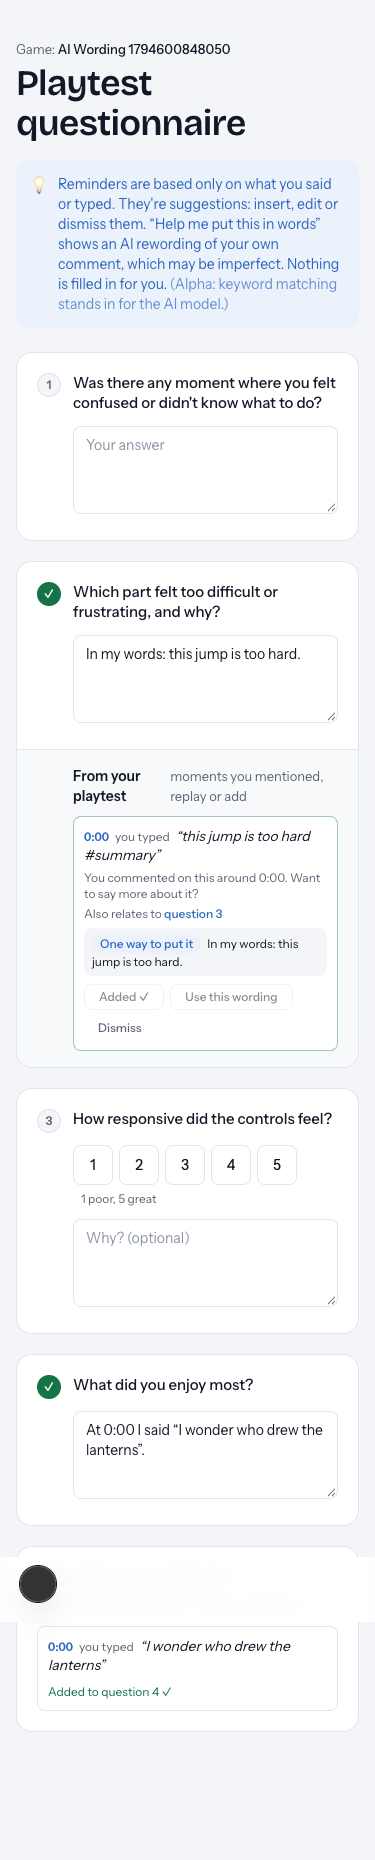
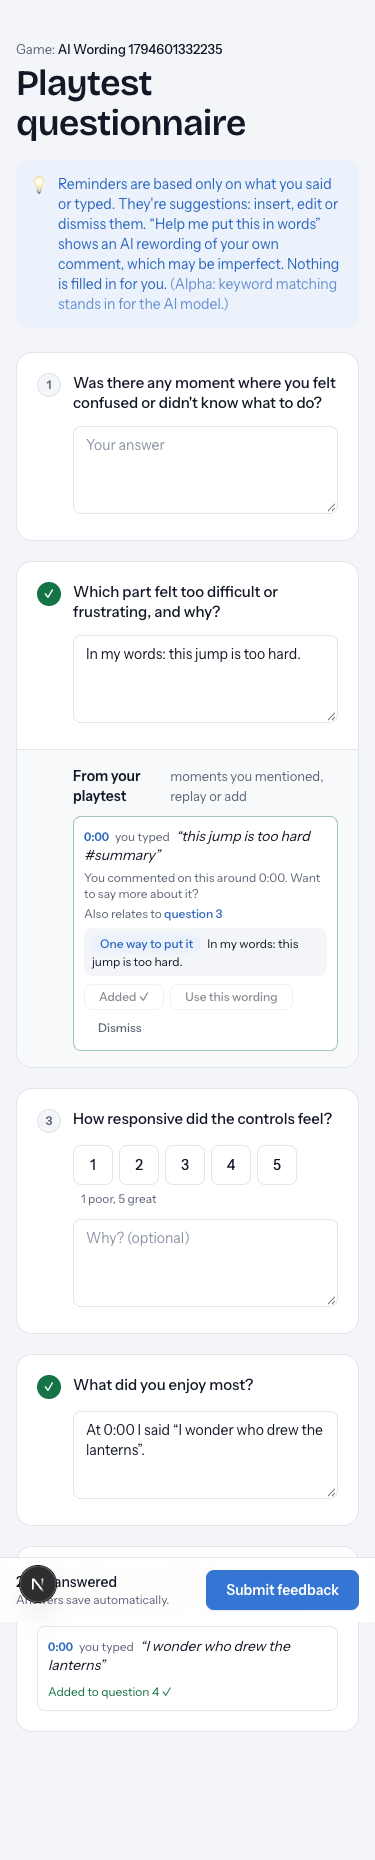
fix(survey): 'Added to question N' survives a reload, so a comment can't be added twice
Found clicking through by hand: the added state lived only in memory. It is now derived from
the saved answers. E2E reloads and checks.

diff --git a/src/app/t/[token]/survey.tsx b/src/app/t/[token]/survey.tsx
@@ -15,7 +15,6 @@ export function Survey({ token, sessionId, projectName, audioOnly, onSubmitted }
   const [title, setTitle] = useState("");
   const [prompts, setPrompts] = useState<Prompt[]>([]);
   const [others, setOthers] = useState<Moment[]>([]);
-  const [addedOther, setAddedOther] = useState<Record<string, number>>({}); // moment id -> question number it was added to
   const [status, setStatus] = useState<Status | null>(null);
   const [hasRecording, setHasRecording] = useState(false);
   const [answers, setAnswers] = useState<Record<string, Ans>>({});
@@ -110,8 +109,9 @@ export function Survey({ token, sessionId, projectName, audioOnly, onSubmitted }
     const a = ans(q.id);
     const line = quoteLine(m);
     setAns(q.id, { text: a.text ? `${a.text.trimEnd()}\n${line}` : line });
-    setAddedOther((all) => ({ ...all, [m.id]: questionIndex + 1 }));
   }
+  // Derived from the saved answers (not memory), so "added" survives a reload and nothing gets added twice.
+  const addedTo = (m: Moment) => { const line = quoteLine(m).trim(); const k = questions.findIndex((q) => ans(q.id).text.includes(line)); return k >= 0 ? k + 1 : 0; };
   const questionNumber = (id: string) => questions.findIndex((q) => q.id === id) + 1;
 
   async function submit() {
@@ -241,8 +241,8 @@ export function Survey({ token, sessionId, projectName, audioOnly, onSubmitted }
                     <span className="num mr-1.5 text-xs font-semibold text-accent-strong">{fmtTime(m.start_ms)}</span><span className="mr-1.5 text-xs text-muted">{m.source === "typed" ? "you typed" : "you said"}</span>
                     <span className="italic">“{m.quote}”</span>
                   </p>
-                  {addedOther[m.id] ? (
-                    <p className="text-xs text-ok">Added to question {addedOther[m.id]} ✓</p>
+                  {addedTo(m) ? (
+                    <p className="text-xs text-ok">Added to question {addedTo(m)} ✓</p>
                   ) : (
                     <select className="input w-auto max-w-full py-1 text-xs" aria-label={`Add “${m.quote}” to a question`} value=""
                       onChange={(e) => { if (e.target.value !== "") addOther(m, Number(e.target.value)); }}>

diff --git a/e2e/edge-cases.spec.ts b/e2e/edge-cases.spec.ts
@@ -145,6 +145,11 @@ test("recall cards: AI wording only on request, one card per comment, unmatched 
   await others.getByRole("combobox").selectOption({ label: "4. What did you enjoy most?" });
   await expect(others).toContainText("Added to question 4 ✓");
   await expect(tester.getByLabel("Answer to question 4")).toHaveValue(/I wonder who drew the lanterns/);
+  // After a reload it must still say "added", or the tester could add the same line twice.
+  await expect(tester.getByText("Draft saved")).toBeVisible({ timeout: 10_000 });
+  await tester.reload();
+  await expect(others).toContainText("Added to question 4 ✓");
+  await expect(others.getByRole("combobox")).toHaveCount(0);
   await tester.getByText("Other things you mentioned").scrollIntoViewIfNeeded();
   await tester.screenshot({ path: path.join(SHOTS, "e2e-7-recall-cards-on-request.png"), fullPage: true });
   // Phone width: the new card links and the "Add to a question" picker must not cause sideways scrolling.
